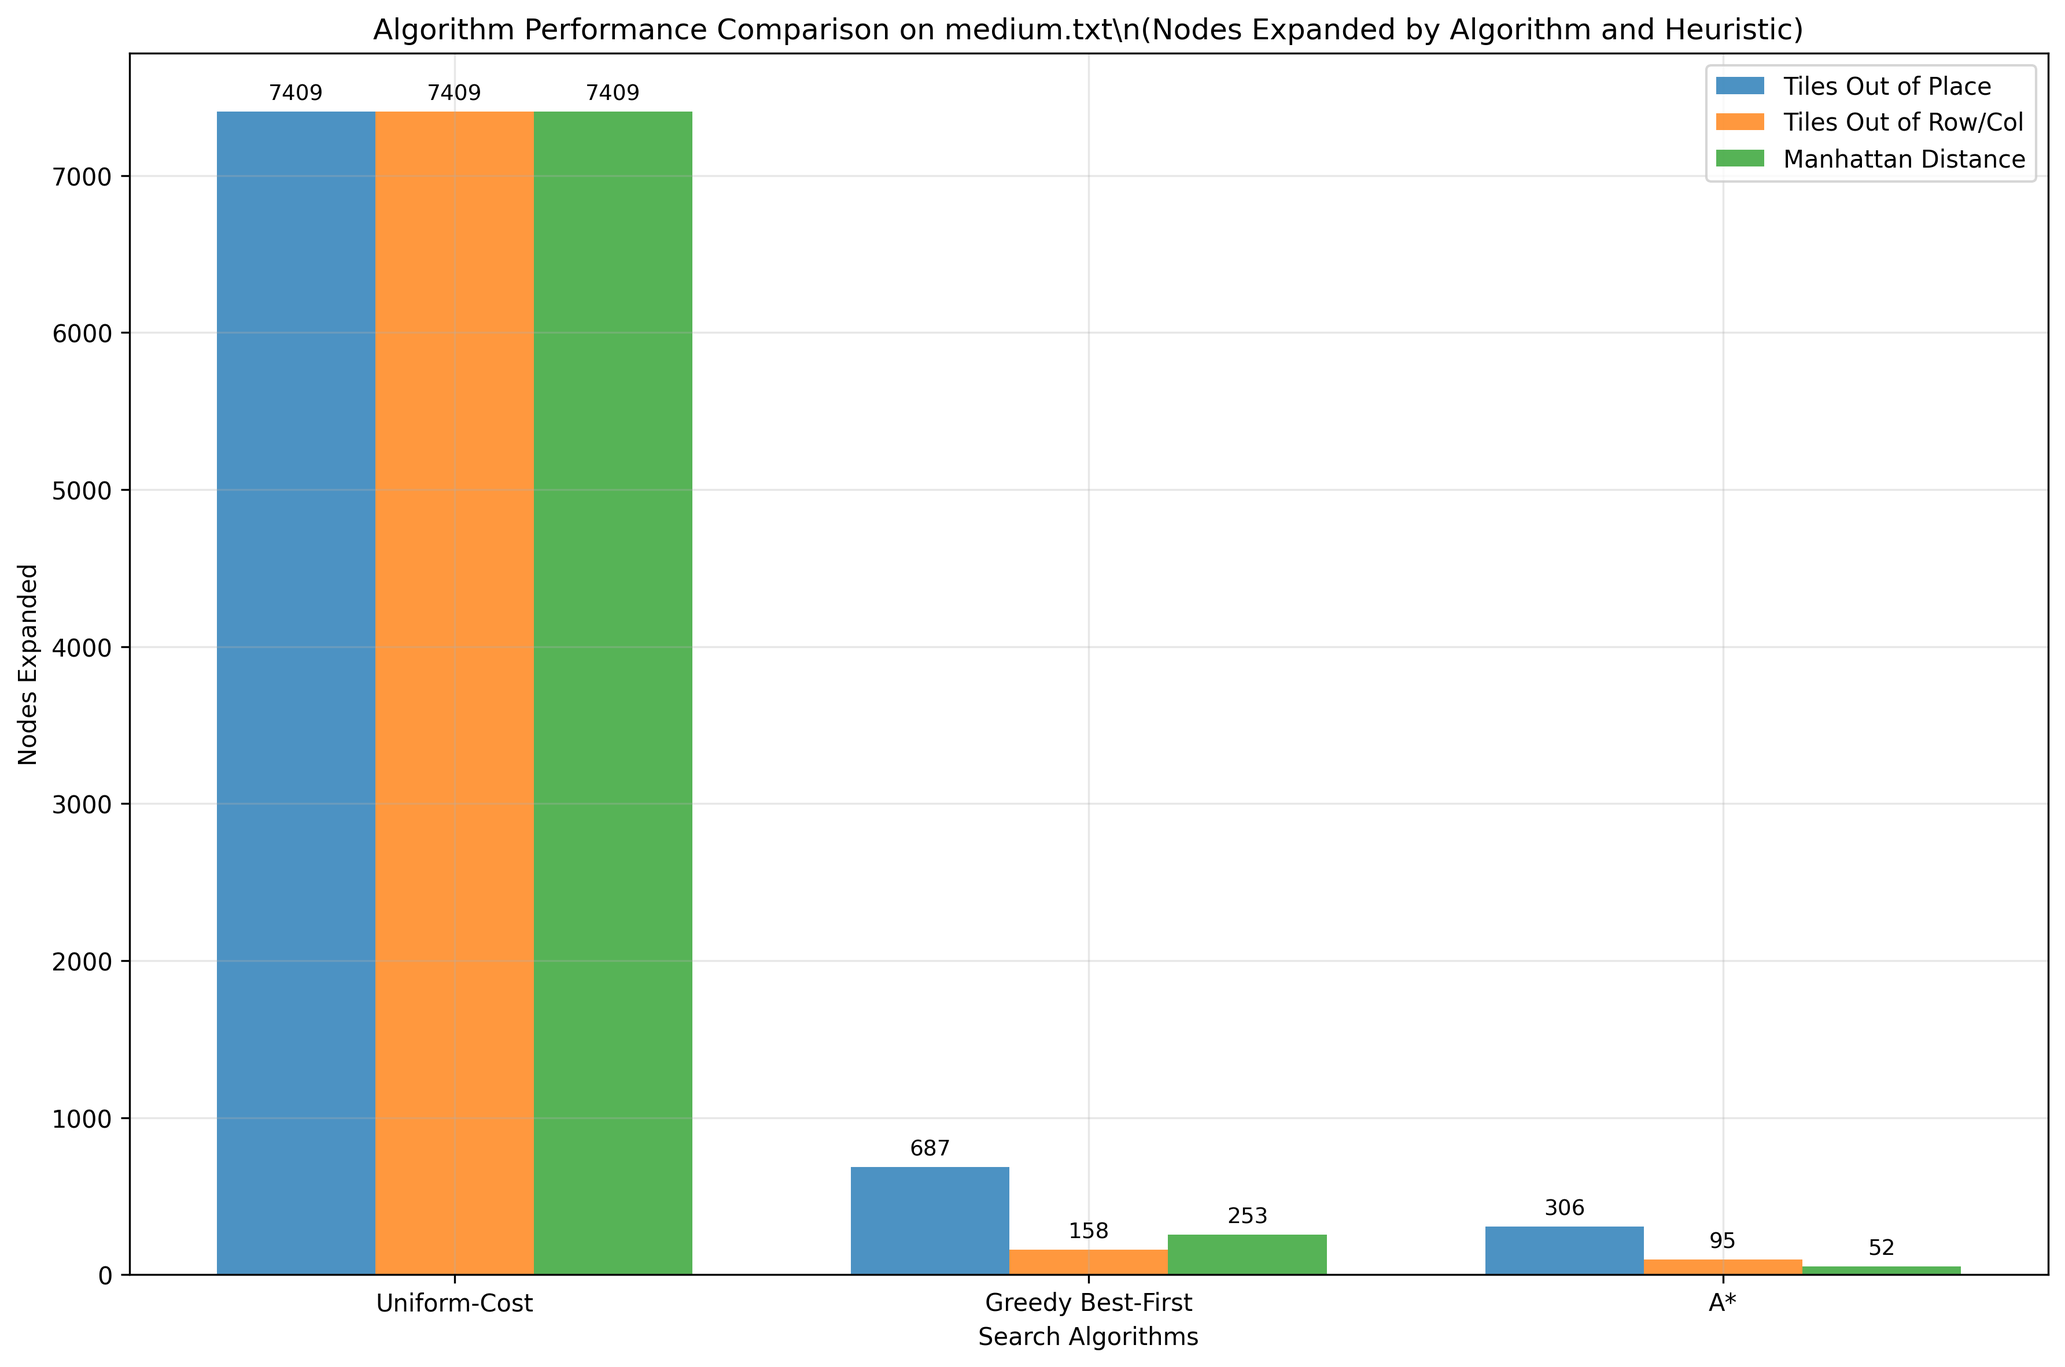
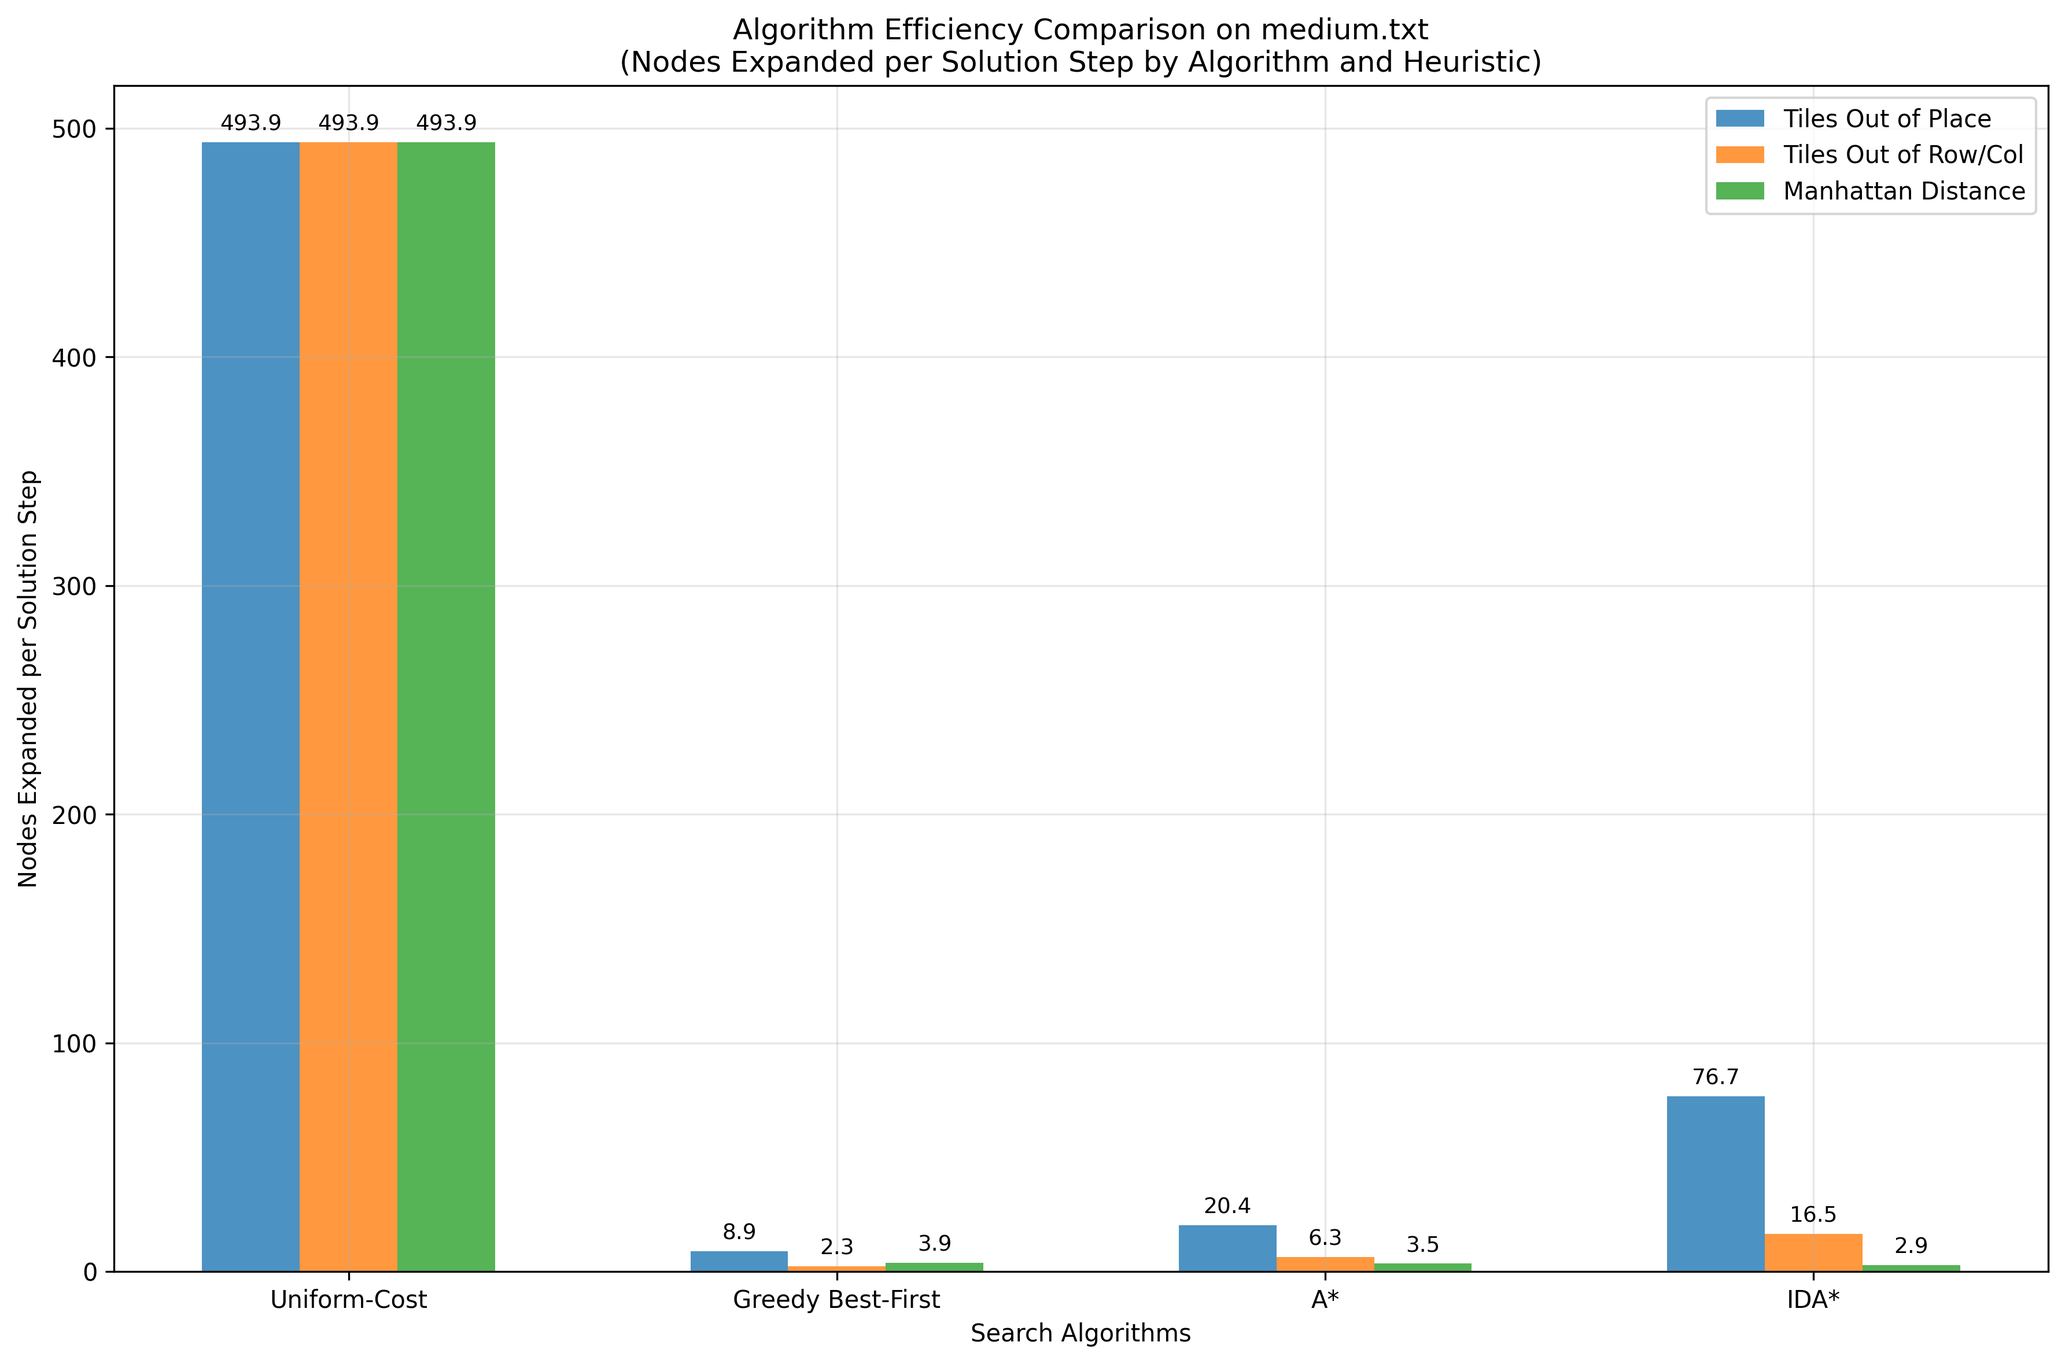
Refactor some code structure

diff --git a/plotting.py b/plotting.py
@@ -30,21 +30,21 @@ import numpy as np
 from queue import PriorityQueue
 
 from puzzle import Puzzle
-from search import SearchNode, run_best_first_search
+from search import SearchNode, run_best_first_search, run_iterative_search
 from config import DEFAULT_INPUT_DIR, DEFAULT_OUTPUT_DIR, DEFAULT_FIGURE_SIZE, DEFAULT_PLOT_DPI
 
 
 def test_algorithms_and_plot(filename='easy.txt', input_dir=DEFAULT_INPUT_DIR, output_dir=DEFAULT_OUTPUT_DIR):
     """
-    Test all combinations of algorithms (u, g, a) with heuristics (top, torc, md) 
+    Test all combinations of algorithms (u, g, a, ida) with heuristics (top, torc, md) 
     and create a grouped bar chart showing nodes expanded.
     """
-    algorithms = ['u', 'g', 'a']  # uniform-cost, greedy, A*
+    algorithms = ['u', 'g', 'a', 'ida']  # uniform-cost, greedy, A*, IDA*
     heuristics = ['top', 'torc', 'md']  # tiles out of place, tiles out of row/column, manhattan distance
-    algorithm_names = ['Uniform-Cost', 'Greedy Best-First', 'A*']
+    algorithm_names = ['Uniform-Cost', 'Greedy Best-First', 'A*', 'IDA*']
     heuristic_names = ['Tiles Out of Place', 'Tiles Out of Row/Col', 'Manhattan Distance']
     
-    # Results storage: [algorithm][heuristic] = nodes_expanded
+    # Results storage: [algorithm][heuristic] = {'nodes': nodes_expanded, 'length': path_length, 'efficiency': nodes/length}
     results = {}
     
     # Construct full path to input file
@@ -75,37 +75,66 @@ def test_algorithms_and_plot(filename='easy.txt', input_dir=DEFAULT_INPUT_DIR, o
                     self.function = heuristic_func
                     self.type = eval_type
                     
-            options = Options('bfs', heuristic, algorithm)
-            start_node = SearchNode(0, p, '', options)
-            
-            # Create priority queue and run search
-            pq = PriorityQueue()
-            pq.put(start_node)
-            
-            # Run best-first search and capture results
-            try:
-                nodes_expanded, path_length = run_best_first_search(pq, options)
-                if nodes_expanded is not None:
-                    results[algorithm][heuristic] = nodes_expanded
-                    print(f"  -> Nodes expanded: {nodes_expanded}, Path length: {path_length}")
-                else:
-                    results[algorithm][heuristic] = float('inf')  # No solution found
-                    print(f"  -> No solution found")
-            except Exception as e:
-                print(f"  -> Error: {e}")
-                results[algorithm][heuristic] = float('inf')
+            if algorithm == 'ida':
+                # IDA* requires A* evaluation function (f = g + h)
+                options = Options('ids', heuristic, 'a')
+                start_node = SearchNode(0, p, '', options)
+                
+                # Run IDA* search
+                try:
+                    nodes_expanded, path_length = run_iterative_search(start_node)
+                    if nodes_expanded is not None and path_length > 0:
+                        efficiency = nodes_expanded / path_length
+                        results[algorithm][heuristic] = {
+                            'nodes': nodes_expanded,
+                            'length': path_length,
+                            'efficiency': efficiency
+                        }
+                        print(f"  -> Nodes expanded: {nodes_expanded}, Path length: {path_length}, Efficiency: {efficiency:.2f}")
+                    else:
+                        results[algorithm][heuristic] = {'nodes': float('inf'), 'length': 0, 'efficiency': float('inf')}
+                        print(f"  -> No solution found")
+                except Exception as e:
+                    print(f"  -> Error: {e}")
+                    results[algorithm][heuristic] = {'nodes': float('inf'), 'length': 0, 'efficiency': float('inf')}
+            else:
+                # Regular best-first search algorithms (u, g, a)
+                options = Options('bfs', heuristic, algorithm)
+                start_node = SearchNode(0, p, '', options)
+                
+                # Create priority queue and run search
+                pq = PriorityQueue()
+                pq.put(start_node)
+                
+                # Run best-first search and capture results
+                try:
+                    nodes_expanded, path_length = run_best_first_search(pq, options)
+                    if nodes_expanded is not None and path_length > 0:
+                        efficiency = nodes_expanded / path_length
+                        results[algorithm][heuristic] = {
+                            'nodes': nodes_expanded,
+                            'length': path_length,
+                            'efficiency': efficiency
+                        }
+                        print(f"  -> Nodes expanded: {nodes_expanded}, Path length: {path_length}, Efficiency: {efficiency:.2f}")
+                    else:
+                        results[algorithm][heuristic] = {'nodes': float('inf'), 'length': 0, 'efficiency': float('inf')}
+                        print(f"  -> No solution found")
+                except Exception as e:
+                    print(f"  -> Error: {e}")
+                    results[algorithm][heuristic] = {'nodes': float('inf'), 'length': 0, 'efficiency': float('inf')}
     
     # Create grouped bar chart
     print("\nCreating bar chart...")
     
     # Prepare data for plotting
     x = np.arange(len(algorithms))  # Algorithm positions
-    width = 0.25  # Width of bars
+    width = 0.2  # Width of bars (reduced to fit 4 algorithms)
     
-    # Extract data for each heuristic
+    # Extract efficiency data for each heuristic
     heur_data = {}
     for heur in heuristics:
-        heur_data[heur] = [results[alg][heur] if results[alg][heur] != float('inf') else 0 
+        heur_data[heur] = [results[alg][heur]['efficiency'] if results[alg][heur]['efficiency'] != float('inf') else 0 
                           for alg in algorithms]
     
     # Create the plot
@@ -118,8 +147,8 @@ def test_algorithms_and_plot(filename='easy.txt', input_dir=DEFAULT_INPUT_DIR, o
     
     # Customize the plot
     ax.set_xlabel('Search Algorithms')
-    ax.set_ylabel('Nodes Expanded')
-    ax.set_title(f'Algorithm Performance Comparison on {filename}\n(Nodes Expanded by Algorithm and Heuristic)')
+    ax.set_ylabel('Nodes Expanded per Solution Step')
+    ax.set_title(f'Algorithm Efficiency Comparison on {filename}\n(Nodes Expanded per Solution Step by Algorithm and Heuristic)')
     ax.set_xticks(x)
     ax.set_xticklabels(algorithm_names)
     ax.legend()
@@ -130,7 +159,7 @@ def test_algorithms_and_plot(filename='easy.txt', input_dir=DEFAULT_INPUT_DIR, o
         for bar in bars:
             height = bar.get_height()
             if height > 0:
-                ax.annotate(f'{int(height)}',
+                ax.annotate(f'{height:.1f}',
                            xy=(bar.get_x() + bar.get_width() / 2, height),
                            xytext=(0, 3),  # 3 points vertical offset
                            textcoords="offset points",
@@ -165,15 +194,26 @@ def test_algorithms_and_plot(filename='easy.txt', input_dir=DEFAULT_INPUT_DIR, o
     else:
         print("Non-interactive backend detected. Plot saved to file only.")
     
-    # Print summary table
-    print("\nSummary Results:")
-    print("=" * 60)
-    print(f"{'Algorithm':<20} {'Top':<10} {'TORC':<10} {'MD':<10}")
-    print("-" * 60)
+    # Print detailed summary table
+    print("\nEfficiency Summary (Nodes Expanded per Solution Step):")
+    print("=" * 80)
+    print(f"{'Algorithm':<20} {'Top':<15} {'TORC':<15} {'MD':<15}")
+    print("-" * 80)
     for alg_idx, alg in enumerate(algorithms):
-        top_val = results[alg]['top'] if results[alg]['top'] != float('inf') else 'N/A'
-        torc_val = results[alg]['torc'] if results[alg]['torc'] != float('inf') else 'N/A'
-        md_val = results[alg]['md'] if results[alg]['md'] != float('inf') else 'N/A'
-        print(f"{algorithm_names[alg_idx]:<20} {str(top_val):<10} {str(torc_val):<10} {str(md_val):<10}")
+        top_eff = f"{results[alg]['top']['efficiency']:.2f}" if results[alg]['top']['efficiency'] != float('inf') else 'N/A'
+        torc_eff = f"{results[alg]['torc']['efficiency']:.2f}" if results[alg]['torc']['efficiency'] != float('inf') else 'N/A'
+        md_eff = f"{results[alg]['md']['efficiency']:.2f}" if results[alg]['md']['efficiency'] != float('inf') else 'N/A'
+        print(f"{algorithm_names[alg_idx]:<20} {top_eff:<15} {torc_eff:<15} {md_eff:<15}")
+    
+    print(f"\nDetailed Results for {filename}:")
+    print("=" * 80)
+    for alg_idx, alg in enumerate(algorithms):
+        print(f"\n{algorithm_names[alg_idx]}:")
+        for heur_idx, heur in enumerate(heuristics):
+            result = results[alg][heur]
+            if result['nodes'] != float('inf'):
+                print(f"  {heuristic_names[heur_idx]:<25}: {result['nodes']:>4} nodes, {result['length']:>2} steps, {result['efficiency']:>6.2f} efficiency")
+            else:
+                print(f"  {heuristic_names[heur_idx]:<25}: No solution found")
     
     return results

diff --git a/search.py b/search.py
@@ -89,11 +89,10 @@ def run_iterative_search(start_node):
         total_expanded += visited['N']
         
         # Check the result
-        if isinstance(result, int):
-            # Solution found! result is the path length
+        if isinstance(result, tuple) and result[0] == "SOLUTION":
             print('Expanded ', total_expanded, 'nodes')
             print('IDA* Found solution with threshold', threshold)
-            return total_expanded, result
+            return total_expanded, result[1]
         elif result == float('inf'):
             # No solution exists
             print('No solution found - search space exhausted')
@@ -126,7 +125,8 @@ def run_ida_star(node, threshold, visited):
     if node.puzzle.is_solved():
         # It is! Print out solution and return solution length
         print('IDA* SOLVED THE PUZZLE! SOLUTION = ', node.path)
-        return len(node.path)
+        # Return a tuple to distinguish from f-values: (True, path_length)
+        return ("SOLUTION", len(node.path))
     
     # Track the minimum f-value that exceeded the threshold
     min_threshold = float('inf')
@@ -156,8 +156,8 @@ def run_ida_star(node, threshold, visited):
             result = run_ida_star(node, threshold, visited)    
             
             # Check if a solution was found
-            if isinstance(result, int):
-                # Solution found! Return the path length
+            if isinstance(result, tuple) and result[0] == "SOLUTION":
+                # Solution found! Return the tuple
                 return result
             
             # Update minimum threshold for next iteration
@@ -246,7 +246,7 @@ def run_best_first_search(fringe, options):
 
 def run_basic_iterative_search(start_node):
     """
-    This runs the original iterative deepening search (for comparison with IDA*)
+    This runs the basic iterative deepening search (for comparison with IDA*)
     It caps the depth of the search at 40 (no 8-puzzles have solutions this long)
     """
     # Our initial depth limit
@@ -278,7 +278,7 @@ def run_basic_iterative_search(start_node):
         if path_length is not None:
             # It was! Print out information and return the search stats
             print('Expanded ', total_expanded, 'nodes')
-            print('Original IDS Found solution at depth', depth_limit)
+            print('Basic IDS Found solution at depth', depth_limit)
             return total_expanded, path_length
             
         # No solution was found at this depth limit, so increment our depth-limit    
@@ -300,7 +300,7 @@ def run_dfs(node, depth_limit, visited):
     # Check to see if this is a goal node
     if node.puzzle.is_solved():
         # It is! Print out solution and return solution length
-        print('Original Iterative Deepening SOLVED THE PUZZLE! SOLUTION = ', node.path)
+        print('Basic Iterative Deepening SOLVED THE PUZZLE! SOLUTION = ', node.path)
         return len(node.path)
         
     # Check to see if the depth limit has been reached (number of actions that have been taken)

diff --git a/main.py b/main.py
@@ -89,7 +89,7 @@ def main():
             # Use this line to run Basic Iterative Deepening Search
             exp, pl = run_basic_iterative_search(start_node)
         else:
-            print("Search option not valid. Can be bfs, ids, or oids")
+            print("Search option not valid. Can be bfs, ids, or bids")
             sys.exit()
 
         if exp is None:

diff --git a/config.py b/config.py
@@ -21,7 +21,7 @@ DEFAULT_PLOT_DPI = 300
 DEFAULT_FIGURE_SIZE = (12, 8)
 
 # Other constants
-MAX_TO_SOLVE = 1
+MAX_TO_SOLVE = 10
 
 def get_input_path(filename, input_dir=DEFAULT_INPUT_DIR):
     """Get full path to input file"""

diff --git a/README.md b/README.md
@@ -53,22 +53,22 @@ python main.py medium.txt -s bfs -f md -t a
 # Use IDA* with Manhattan Distance heuristic  
 python main.py hard.txt --search ids --function md --type a
 
-# Compare IDA* vs Original Iterative Deepening on the same puzzle
+# Compare IDA* vs Basic Iterative Deepening on the same puzzle
 python main.py medium.txt --search ids --function md --type a    # IDA*
-python main.py medium.txt --search oids --function top --type u  # Original IDS
+python main.py medium.txt --search bids --function top --type u  # Basic IDS
 ```
 
 #### Command Line Arguments
 
 - `filename`: Puzzle file to solve (required)
-- `-s, --search`: Search type - `ids` (IDA* - Iterative Deepening A*), `oids` (Original Iterative Deepening Search), or `bfs` (best-first)
+- `-s, --search`: Search type - `ids` (IDA* - Iterative Deepening A*), `bids` (Basic Iterative Deepening Search), or `bfs` (best-first)
 - `-f, --function`: Heuristic function - `top` (tiles out of place), `torc` (tiles out of row/column), or `md` (manhattan distance)
 - `-t, --type`: Evaluation function - `u` (uniform cost), `g` (greedy), or `a` (A*)
 - `--input-dir`: Input directory for puzzle files (default: `puzzles`)
 
 **Notes:** 
 - For optimal IDA* performance, use with evaluation function type `a` (A*) to ensure f(n) = g(n) + h(n).
-- Use `oids` to run the original iterative deepening search for comparison with IDA*.
+- Use `bids` to run the basic iterative deepening search for comparison with IDA*.
 
 ### Algorithm Performance Comparison
 
@@ -90,9 +90,11 @@ python test_algorithms.py easy.txt --input-dir puzzles --output-dir results
 ```
 
 This generates:
-- Detailed performance statistics printed to console
-- Grouped bar chart visualization saved as PNG
-- Comparison of nodes expanded across all algorithm-heuristic combinations
+- Detailed efficiency statistics printed to console (nodes expanded per solution step)
+- Grouped bar chart visualization saved as PNG showing algorithm efficiency
+- Comparison of search efficiency across all algorithm-heuristic combinations
+- Includes IDA* (Iterative Deepening A*) alongside traditional best-first search algorithms
+- Both raw performance metrics and normalized efficiency ratios for comprehensive analysis
 
 ## Search Strategies
 
@@ -167,12 +169,14 @@ Puzzle files contain one puzzle per line, where each line is 9 digits representi
 | Worst      | *            | -                  | -              | -                   |
 *\*Worst puzzles were not computed in a reasonable time*
 
-### 3 Algorithms x 3 Heuristics Analysis (Task 1.5)
-![easy results](/results/algorithm_comparison_easy.png)
-![medium results](/results/algorithm_comparison_medium.png)
-![hard results](/results/algorithm_comparison_hard.png)
-![random results](/results/algorithm_comparison_random.png)
-![worst results](/results/algorithm_comparison_worst.png)
+### 4 Algorithms x 3 Heuristics Efficiency Analysis
+![easy results](/results/algorithm_efficiency_easy.png)
+![medium results](/results/algorithm_efficiency_medium.png)
+![hard results](/results/algorithm_efficiency_hard.png)
+![random results](/results/algorithm_efficiency_random.png)
+![worst results](/results/algorithm_efficiency_worst.png)
+
+**Note:** The algorithm comparison displays **efficiency metrics** (nodes expanded per solution step) rather than raw node counts. This provides a more meaningful comparison by normalizing performance against solution complexity. Lower values indicate better efficiency. The analysis includes IDA* (Iterative Deepening A*) alongside the original three algorithms (Uniform-Cost, Greedy Best-First, and A*), showing how heuristic quality dramatically affects search efficiency.
 
 
 ## Configuration
@@ -186,12 +190,10 @@ Modify `config.py` to adjust:
 ## Academic Context
 
 This implementation was developed for an AI course programming assignment focused on:
-- Understanding different search strategies
-- Comparing heuristic effectiveness  
-- Analyzing time and space complexity trade-offs
+- Understanding different search strategies in node spaces
+- Comparing the effectiveness of various heuristics
+- Analyzing time and space complexity trade-offs between algorithms/heuristics
 - Implementing clean, modular code architecture
-
-**Recent Update:** The original iterative deepening search has been enhanced to IDA* (Iterative Deepening A*) to demonstrate advanced search algorithms that combine the benefits of both iterative deepening and A* search.
 
 ## Authors
 
